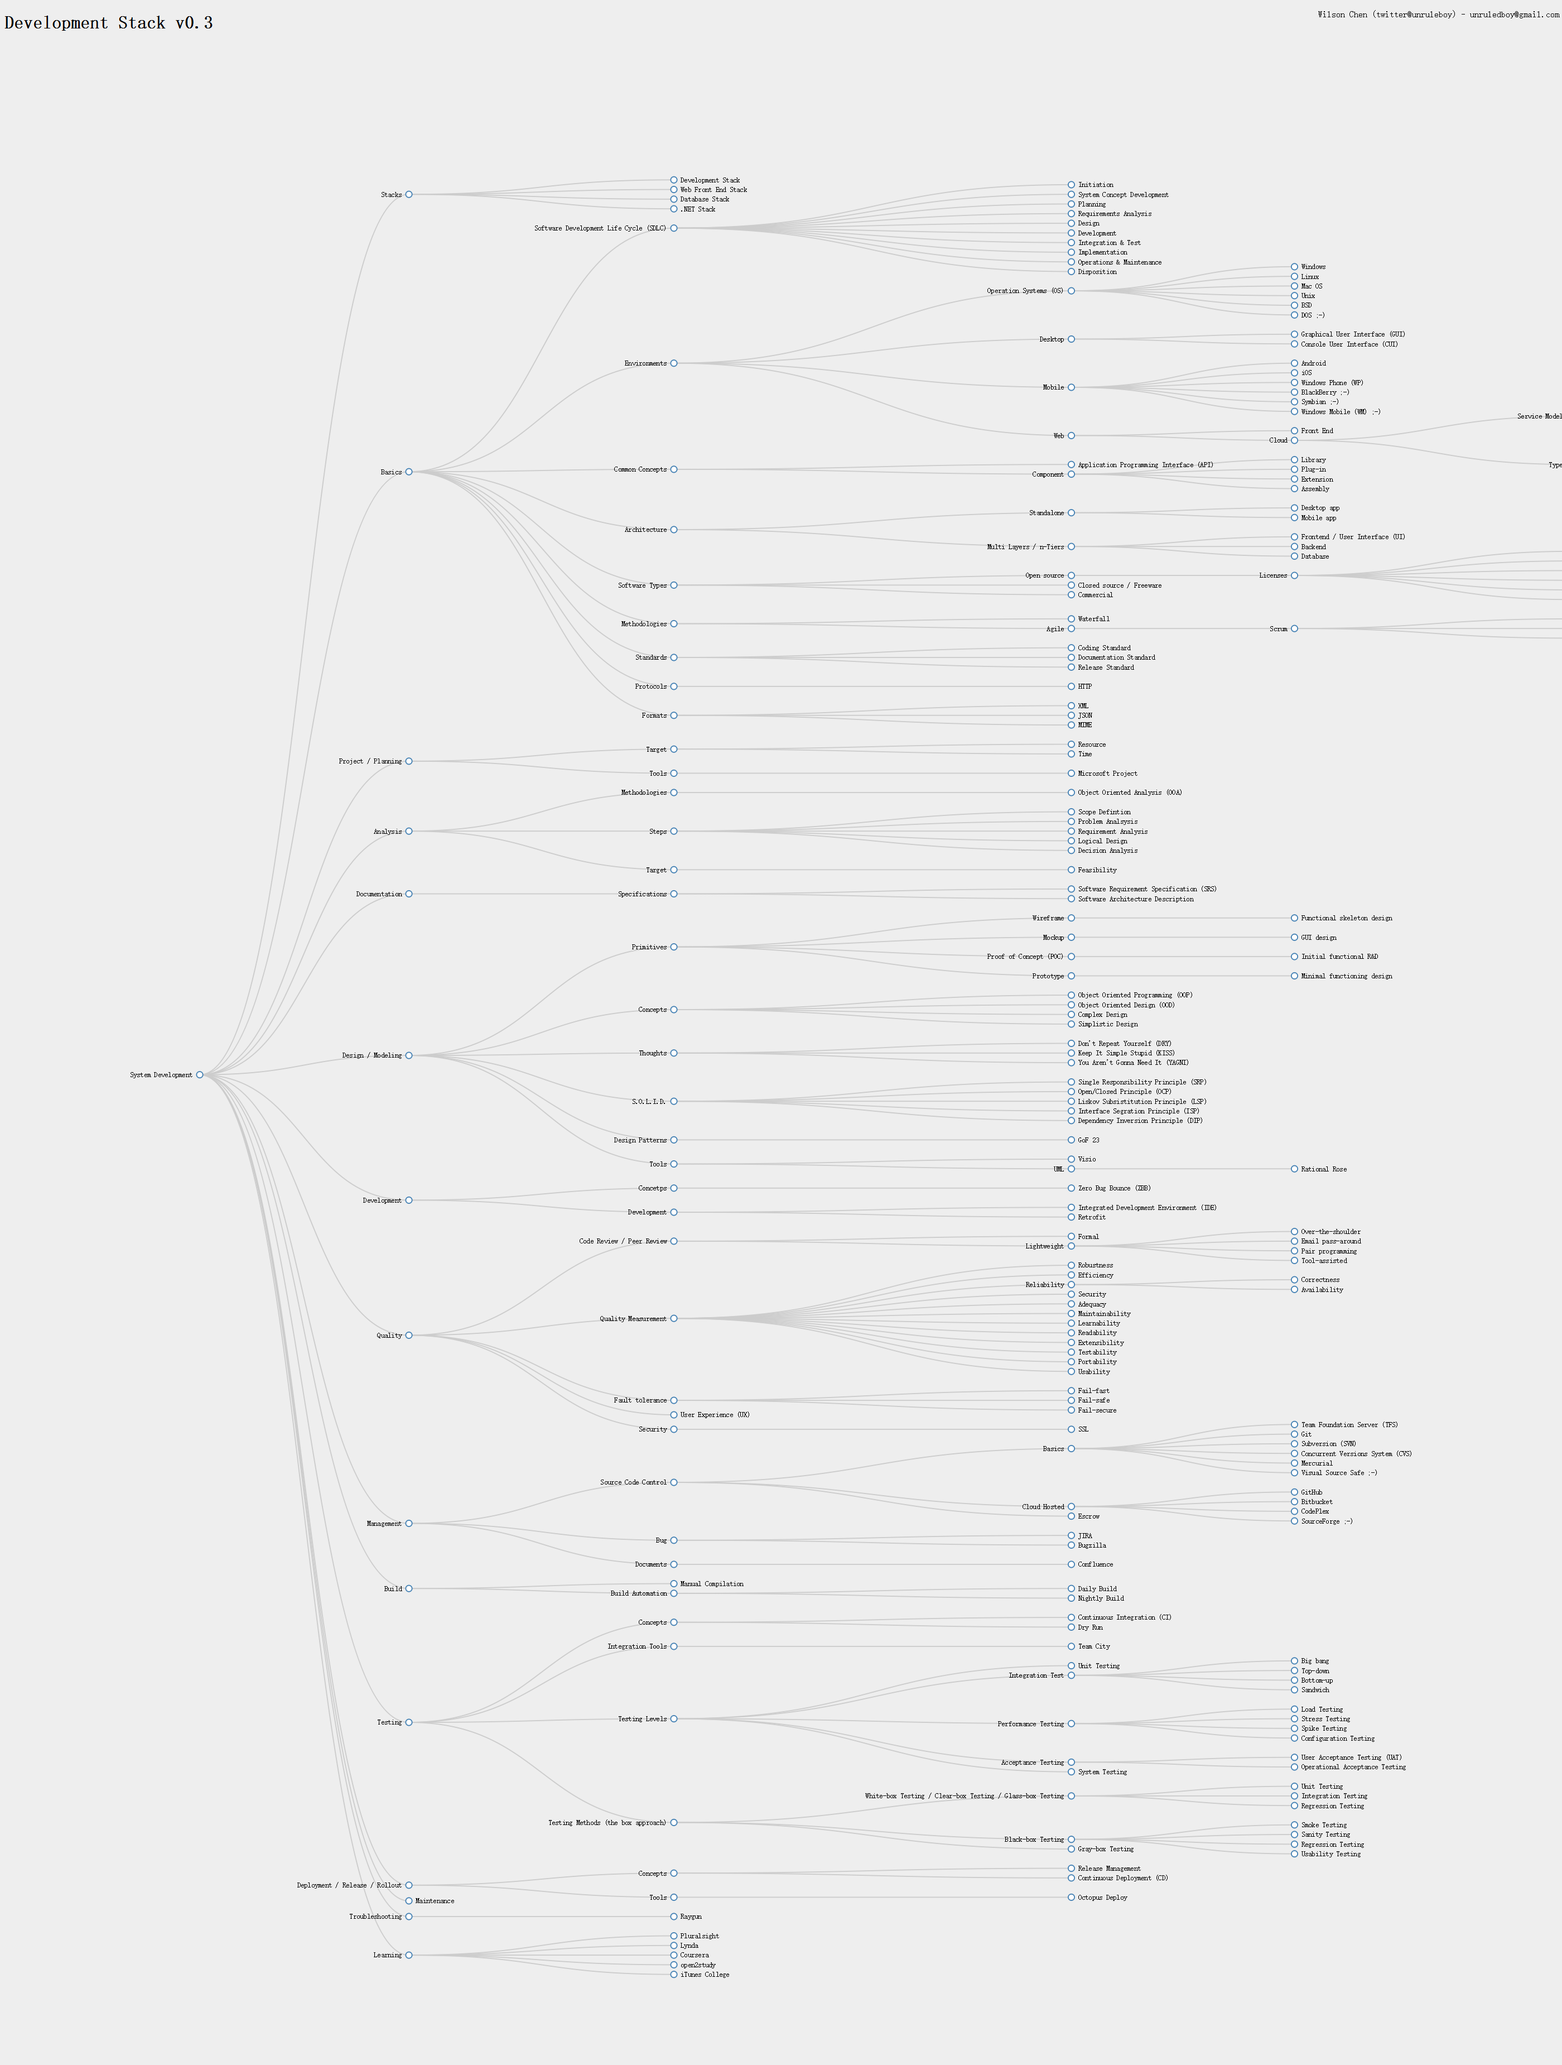
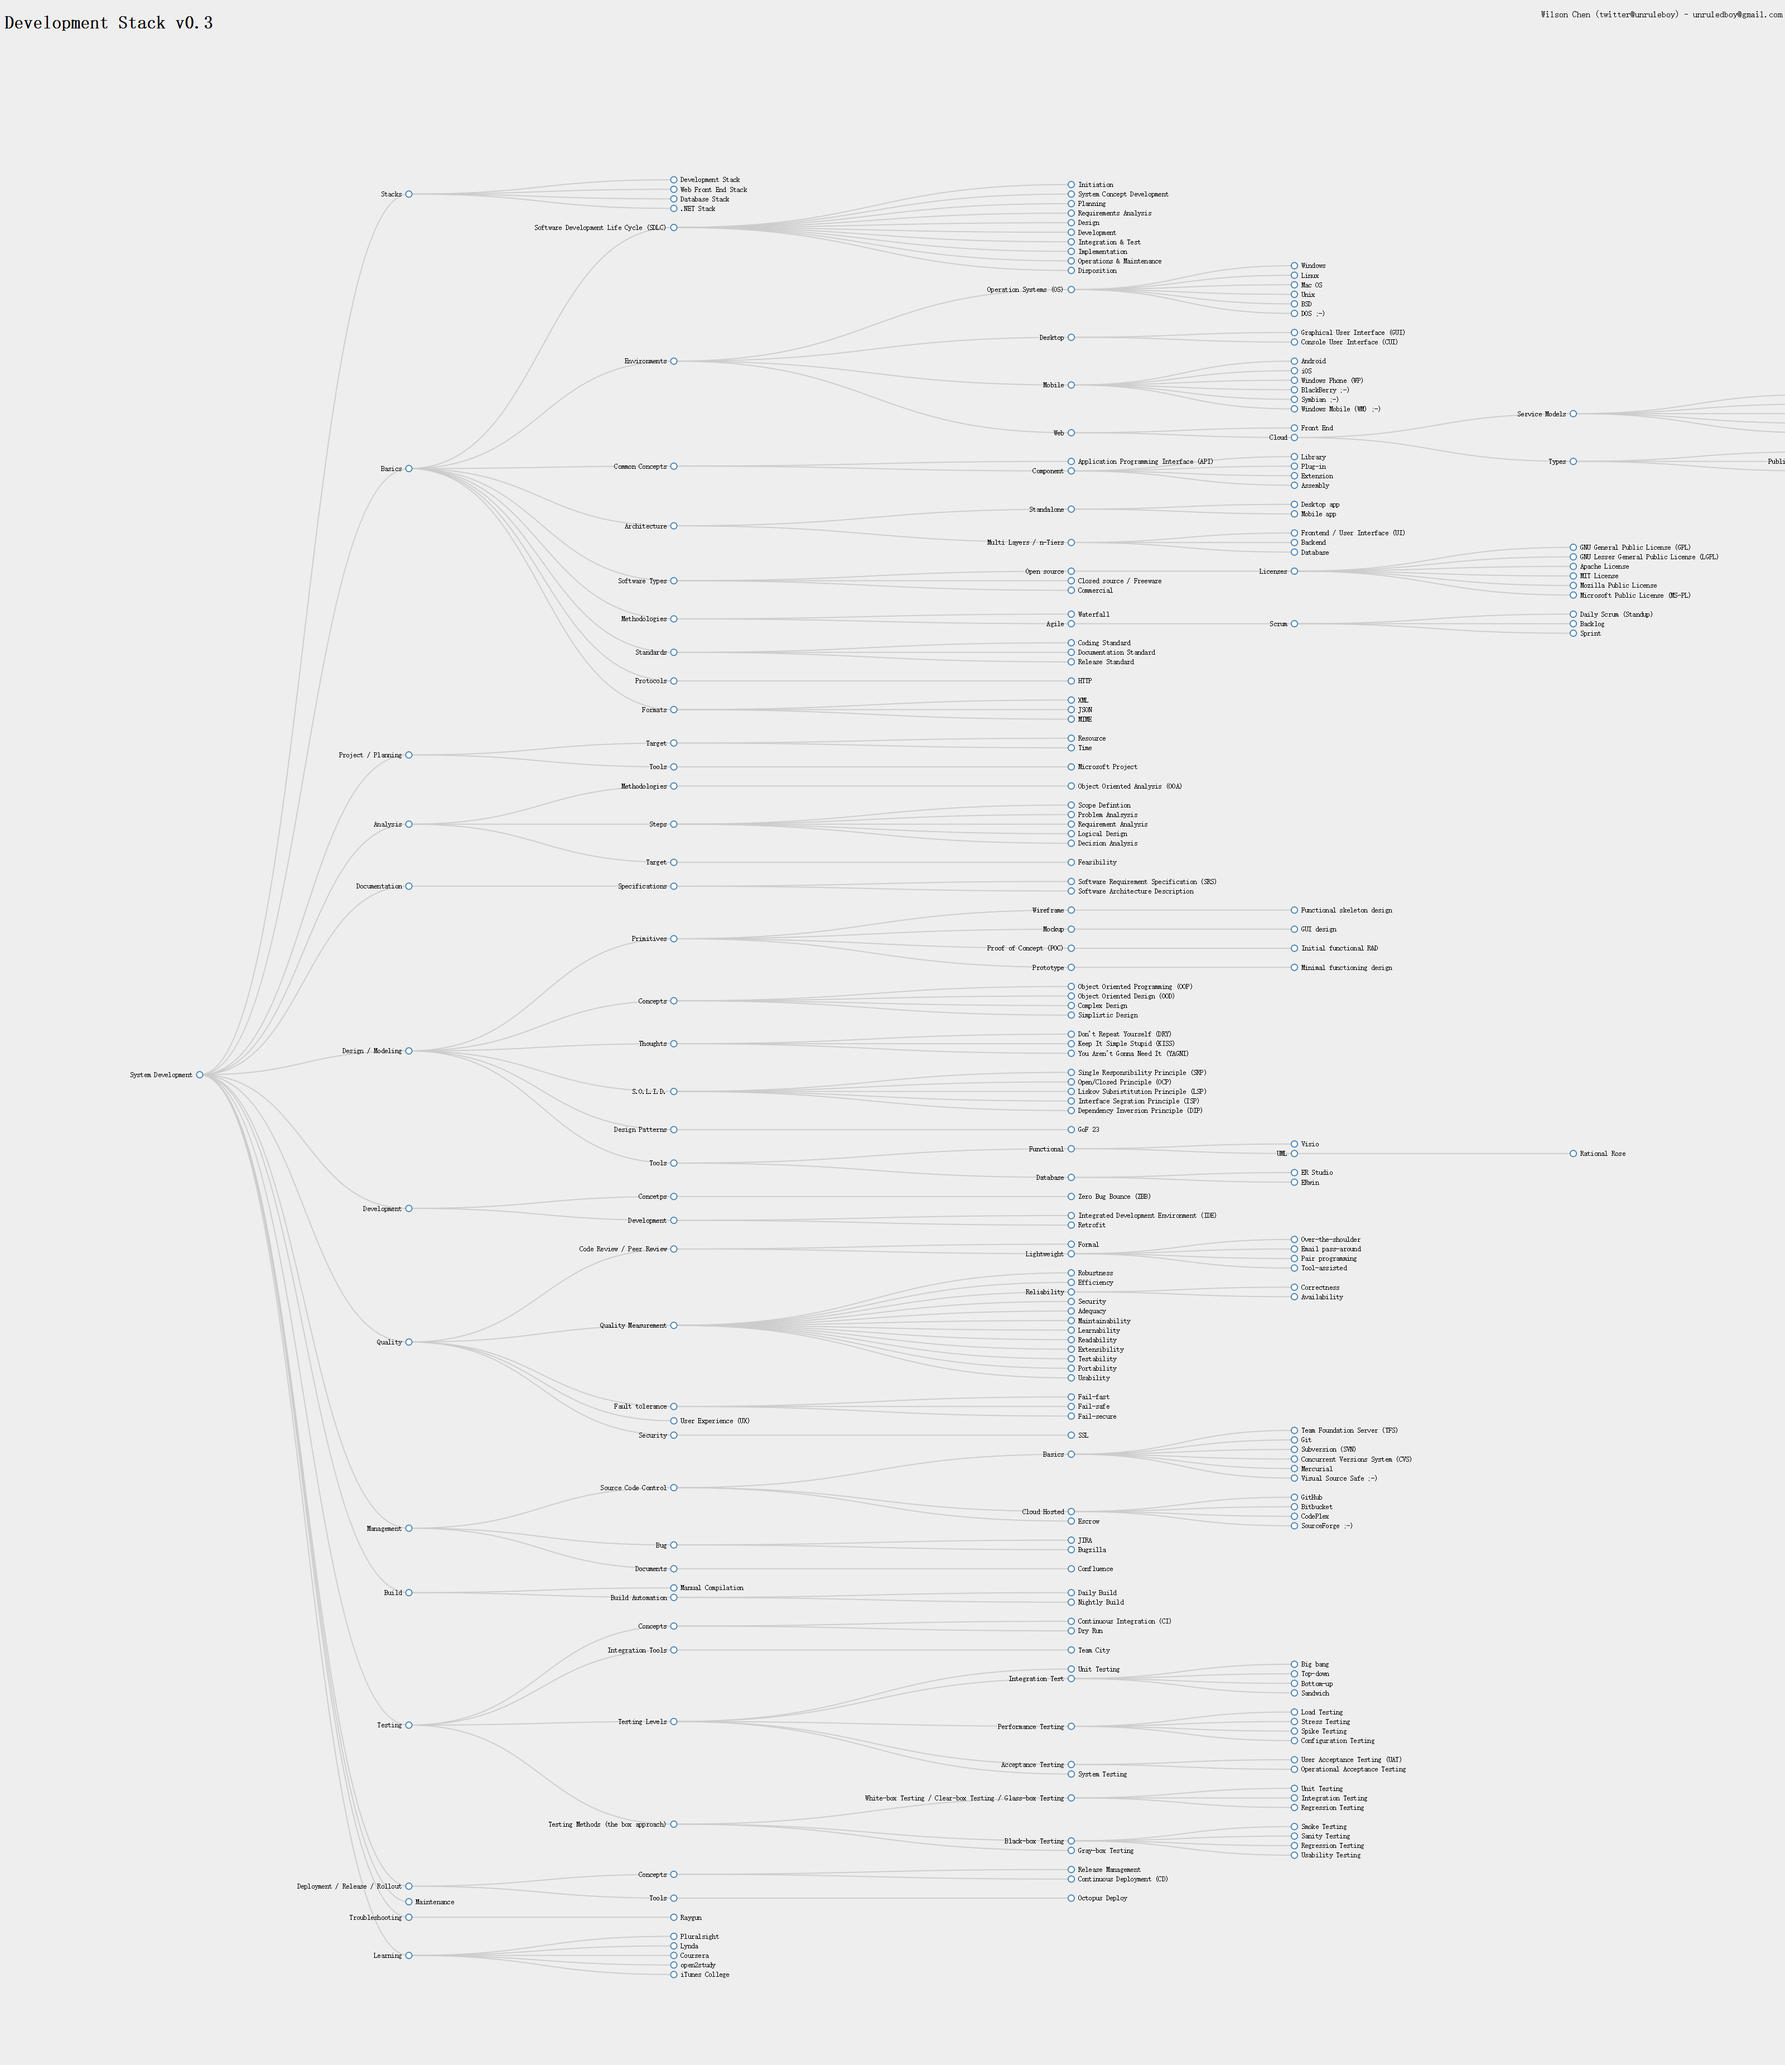
added more modeling tools

diff --git a/index.js b/index.js
@@ -12,7 +12,7 @@ var fs = Promise.promisifyAll(require('fs'));
 var app = new express();
 var queueReady = ["server"];
 
-var pageWidth = 2800; // Magic number!
+var pageWidth = 3200; // Magic number!
 var pageHeight = 3700;
 
 var config = {

diff --git a/README.md b/README.md
@@ -172,9 +172,13 @@ https://rawgit.com/unruledboy/DevelopmentStack/master/ux/DevelopmentStack.htm
 		- Design Patterns
 			- GoF 23
 		- Tools
-			- Visio
-			- UML
-				- Rational Rose
+			- Functional
+				- Visio
+				- UML
+					- Rational Rose
+			- Database
+				- ER Studio
+				- ERwin
 	- Development
 		- Concetps
 			- Zero Bug Bounce (ZBB)
